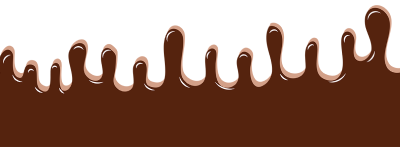
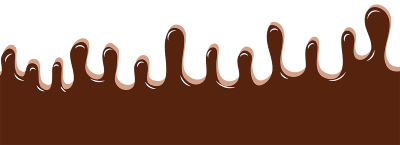
Minor improvement

diff --git a/public/assets/styles.css b/public/assets/styles.css
@@ -779,7 +779,7 @@ body .container ::-webkit-scrollbar-thumb {
 .login__container {
   min-width: 331px;
   min-height: 331px;
-  border-radius: 45px;
+  border-radius: 55px;
   position: relative;
 }
 .login__row {
@@ -790,7 +790,6 @@ body .container ::-webkit-scrollbar-thumb {
   color: #f5f5f5;
   font-size: 51px;
   margin-bottom: 7px;
-  font-style: normal;
 }
 .login__header {
   height: 100px;
@@ -798,29 +797,30 @@ body .container ::-webkit-scrollbar-thumb {
   display: flex;
   align-items: flex-end;
   justify-content: center;
-  border-radius: 45px;
+  border-radius: 55px;
   border-bottom-left-radius: 0;
   border-bottom-right-radius: 0;
   margin-bottom: 7px;
 }
 .login__content {
-  padding: 38px 38px 95px 38px;
+  padding: 38px 38px 110px 38px;
   background-color: #eeeeee;
-  border-radius: 45px;
+  border-radius: 55px;
   border-top-left-radius: 0;
   border-top-right-radius: 0;
 }
 .login__decor {
   background: url("./choc400.png");
-  background-size: cover;
-  height: 107px;
+  background-size: 125%;
+  background-repeat: no-repeat;
+  background-position: center;
+  height: 111px;
   position: absolute;
-  border-radius: 45px;
+  border-radius: 55px;
   border-top-left-radius: 0;
   border-top-right-radius: 0;
-  z-index: 1;
-  left: 2px;
-  right: 2px;
+  left: 1px;
+  right: 1px;
   bottom: 0;
   opacity: 0.9;
 }
@@ -835,6 +835,26 @@ body .container ::-webkit-scrollbar-thumb {
 .login .ui.button:hover, .login .ui.button:active, .login .ui.button:focus {
   color: white;
   background-color: #2f6da9;
+}
+
+.logo {
+  position: relative;
+  grid-column: 1;
+  grid-row: 1;
+  background-color: #bb247f;
+  display: flex;
+  align-items: center;
+}
+.logo__link {
+  font-family: "Pacifico", cursive;
+  margin-left: 43px;
+  margin-top: 7px;
+  font-size: 27px;
+  cursor: pointer;
+  color: rgba(255, 255, 255, 0.95);
+}
+.logo__link:hover {
+  color: white;
 }
 
 html, body {
@@ -919,25 +939,6 @@ html, body {
   color: rgba(255, 255, 255, 0.7);
   font-weight: bold;
   font-size: 16px;
-}
-
-.logo {
-  position: relative;
-  grid-column: 1;
-  grid-row: 1;
-  background-color: #bb247f;
-  display: flex;
-  align-items: center;
-}
-.logo__link {
-  margin-left: 58px;
-  width: 105px;
-  height: 50px;
-  background-image: url("./belong.png");
-  background-size: 100%;
-  background-repeat: no-repeat;
-  background-position: center center;
-  cursor: pointer;
 }
 
 .main {

diff --git a/src/scss/login.scss b/src/scss/login.scss
@@ -1,6 +1,6 @@
 .login {
 
-    $border-radius: 45px;
+    $border-radius: 55px;
 
     display: flex;
     justify-content: center;
@@ -28,7 +28,6 @@
         color: #f5f5f5;
         font-size: 51px;
         margin-bottom: 7px;
-        font-style: normal;
     }
 
     &__header {
@@ -47,7 +46,7 @@
 
     &__content {
 
-        padding: 38px 38px 95px 38px;
+        padding: 38px 38px 110px 38px;
         background-color: #eeeeee;
         border-radius: $border-radius;
         border-top-left-radius: 0;
@@ -57,15 +56,16 @@
     &__decor {
 
         background: url( "./choc400.png" );
-        background-size: cover;
-        height: 107px;
+        background-size: 125%;
+        background-repeat: no-repeat;
+        background-position: center;
+        height: 111px;
         position: absolute;
         border-radius: $border-radius;
         border-top-left-radius: 0;
         border-top-right-radius: 0;
-        z-index: 1;
-        left: 2px;
-        right: 2px;
+        left: 1px;
+        right: 1px;
         bottom: 0;
         opacity: 0.9;
     }

diff --git a/src/scss/main.scss b/src/scss/main.scss
@@ -11,6 +11,7 @@
 @import "./tag";
 @import "./code-feedback";
 @import "./login";
+@import "./logo";
 
 html, body {
     
@@ -81,27 +82,6 @@ html, body {
     }
 }
 
-.logo {
-
-    position: relative;
-    grid-column: 1;
-    grid-row: 1;
-    background-color: #bb247f;
-    display: flex;
-    align-items: center;
-
-    &__link {
-
-        margin-left: 58px;
-        width: 105px;
-        height: 50px;
-        background-image: url( './belong.png' );
-        background-size: 100%;
-        background-repeat: no-repeat;
-        background-position: center center;
-        cursor: pointer;
-    }
-}
 
 .main {
 

diff --git a/public/create-feature-store.html b/public/create-feature-store.html
@@ -12,10 +12,11 @@
   <script src="./assets/semantic/semantic.min.js"></script>
   <script src="./assets/ace/ace.js"></script>
   <link rel="stylesheet" type="text/css" href="./assets/styles.css">
+  <link href="https://fonts.googleapis.com/css?family=Pacifico" rel="stylesheet">
 </head>
 <body>
   <div class="container">
-    <div class="logo"><a class="logo__link" href="/"></a>
+    <div class="logo"><a class="logo__link" href="/">Choc-BERi</a>
       <div class="mobile-menu__button"><i class="fas fa-bars mobile-menu__icon"></i></div>
     </div>
     <div class="side-bar">

diff --git a/public/feature-status-fac.html b/public/feature-status-fac.html
@@ -12,10 +12,11 @@
   <script src="./assets/semantic/semantic.min.js"></script>
   <script src="./assets/ace/ace.js"></script>
   <link rel="stylesheet" type="text/css" href="./assets/styles.css">
+  <link href="https://fonts.googleapis.com/css?family=Pacifico" rel="stylesheet">
 </head>
 <body>
   <div class="container">
-    <div class="logo"><a class="logo__link" href="/"></a>
+    <div class="logo"><a class="logo__link" href="/">Choc-BERi</a>
       <div class="mobile-menu__button"><i class="fas fa-bars mobile-menu__icon"></i></div>
     </div>
     <div class="side-bar">

diff --git a/public/feature-status-lab.html b/public/feature-status-lab.html
@@ -12,10 +12,11 @@
   <script src="./assets/semantic/semantic.min.js"></script>
   <script src="./assets/ace/ace.js"></script>
   <link rel="stylesheet" type="text/css" href="./assets/styles.css">
+  <link href="https://fonts.googleapis.com/css?family=Pacifico" rel="stylesheet">
 </head>
 <body>
   <div class="container">
-    <div class="logo"><a class="logo__link" href="/"></a>
+    <div class="logo"><a class="logo__link" href="/">Choc-BERi</a>
       <div class="mobile-menu__button"><i class="fas fa-bars mobile-menu__icon"></i></div>
     </div>
     <div class="side-bar">

diff --git a/public/index.html b/public/index.html
@@ -12,10 +12,11 @@
   <script src="./assets/semantic/semantic.min.js"></script>
   <script src="./assets/ace/ace.js"></script>
   <link rel="stylesheet" type="text/css" href="./assets/styles.css">
+  <link href="https://fonts.googleapis.com/css?family=Pacifico" rel="stylesheet">
 </head>
 <body>
   <div class="container">
-    <div class="logo"><a class="logo__link" href="/"></a>
+    <div class="logo"><a class="logo__link" href="/">Choc-BERi</a>
       <div class="mobile-menu__button"><i class="fas fa-bars mobile-menu__icon"></i></div>
     </div>
     <div class="side-bar">

diff --git a/public/upload-scripts-lab.html b/public/upload-scripts-lab.html
@@ -12,10 +12,11 @@
   <script src="./assets/semantic/semantic.min.js"></script>
   <script src="./assets/ace/ace.js"></script>
   <link rel="stylesheet" type="text/css" href="./assets/styles.css">
+  <link href="https://fonts.googleapis.com/css?family=Pacifico" rel="stylesheet">
 </head>
 <body>
   <div class="container">
-    <div class="logo"><a class="logo__link" href="/"></a>
+    <div class="logo"><a class="logo__link" href="/">Choc-BERi</a>
       <div class="mobile-menu__button"><i class="fas fa-bars mobile-menu__icon"></i></div>
     </div>
     <div class="side-bar">

diff --git a/src/scss/logo.scss b/src/scss/logo.scss
@@ -1,0 +1,26 @@
+
+.logo {
+
+    position: relative;
+    grid-column: 1;
+    grid-row: 1;
+    background-color: #bb247f;
+    display: flex;
+    align-items: center;
+
+    &__link {
+
+        font-family: 'Pacifico', cursive;
+        margin-left: 43px;
+        margin-top: 7px;
+        font-size: 27px;
+        cursor: pointer;
+        color: rgba( 255, 255, 255, 0.95 );
+
+        &:hover {
+
+            color: white;
+        }
+
+    }
+}

diff --git a/src/scss/override-semantic.scss b/src/scss/override-semantic.scss
@@ -3,6 +3,7 @@
  *
  * NOTE: Check modal component at modals.scss
  */
+
 .ui {
 
     &.button {
